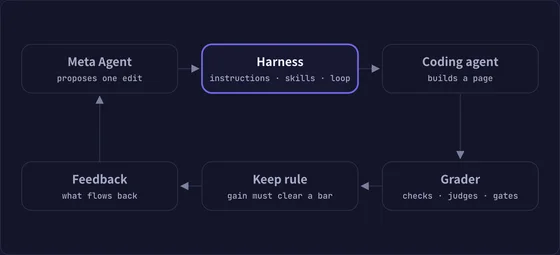
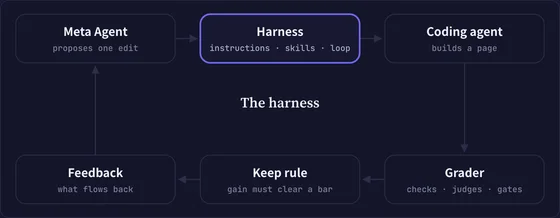
Rework Figures 2, 4 and 6 of the harness post
- Figure 2 (the loop): the diagram is built once and steps re-class it, so boxes
  and arrows ease between states; the step title sits in the loop's hole, the
  card keeps the tallest step's height, controls regrouped.
- Figure 4 (one task, two graders): the static PNG becomes a live figure. The
  two pages in windows (from the paper's source screenshots), a lenient/strict
  switch, scores and the gap counting to the exact paper values (+0.30 ->
  +0.14). Same caption in both posts; example-page.png removed.
- Figure 6 (keep rule): the 40 evaluations land on the chart's own axis, split
  by the bar; the run control sits in the stage; labels moved off the curve.

diff --git a/world/public/blog/harness-optimization/interactive/loop.js b/world/public/blog/harness-optimization/interactive/loop.js
@@ -1,29 +1,26 @@
 // "How the loop works": a step-through of the optimization loop that defines every term the post uses.
+// The diagram is drawn once per layout and steps only change classes, so boxes and arrows ease between states;
+// the current step's title sits in the loop's own hole, and the card below keeps the tallest step's height.
 (function () {
   const {onTheme, reduced} = kit;
-  const svg = document.getElementById('loop'), card = document.getElementById('card'), dots = document.getElementById('dots');
+  const svg = document.getElementById('loop'), card = document.getElementById('card'), dots = document.getElementById('dots'), count = document.getElementById('count');
   const prev = document.getElementById('prev'), next = document.getElementById('next');
-  // Nodes on a loop: x, y are centres in a 640 x 280 box.
-  const WIDE = {
-    meta: [105, 70], harness: [320, 70], agent: [535, 70], grader: [535, 210], rule: [320, 210], feedback: [105, 210],
-  };
-  const NARROW = {  // the same loop in two columns for phones
-    meta: [82, 40], harness: [258, 40], agent: [258, 160], grader: [258, 280], rule: [82, 280], feedback: [82, 160],
-  };
+  // Nodes on a loop: x, y are centres. The wide loop leaves a hole between its rows for the step title.
+  const WIDE = {box: [640, 236], meta: [100, 34], harness: [320, 34], agent: [540, 34], grader: [540, 202], rule: [320, 202], feedback: [100, 202]};
+  const NARROW = {box: [340, 330], meta: [82, 34], harness: [258, 34], agent: [258, 165], grader: [258, 296], rule: [82, 296], feedback: [82, 165]};
   // title, subtitle, shorter subtitle for the narrow layout
   const LABEL = {
     meta: ['Meta Agent', 'proposes one edit'], harness: ['Harness', 'instructions · skills · loop', 'how the agent works'],
     agent: ['Coding agent', 'builds a page'], grader: ['Grader', 'checks · judges · gates', 'scores each page'],
     rule: ['Keep rule', 'gain must clear a bar', 'keep or revert'], feedback: ['Feedback', 'what flows back'],
   };
-  let N = {};
   const E = [['meta', 'harness'], ['harness', 'agent'], ['agent', 'grader'], ['grader', 'rule'], ['rule', 'feedback'], ['feedback', 'meta']];
   const STEPS = [
     {on: ['harness'], h: 'The harness', b: 'Everything around a frozen AI model: its <b>instructions</b>, <b>skills</b> (reusable how-to files), <b>hooks</b> (scripts that run at fixed moments) and its <b>control loop</b>. Changing the harness changes how the agent works without retraining the model.'},
     {on: ['meta', 'harness'], h: 'The Meta Agent edits it', b: 'A second AI agent reads the run records and proposes <b>one edit</b> to the harness per iteration. In most lineages it may edit instructions, skills and hooks (<b>prompt-level</b>); in one it may also edit the control loop (<b>control-loop</b>).'},
     {on: ['harness', 'agent'], h: 'The coding agent builds pages', b: 'With the edited harness, a coding agent builds an interactive web page from a short written brief. There is no reference answer: many different pages can be good.'},
     {on: ['agent', 'grader'], h: 'The grader scores each page from 0 to 1', b: 'Programmatic checks (does it load, overflow, throw errors), <b>claim checks</b> by AI judges (does it do what the brief asks) and a <b>design judge</b> scoring a design <b>rubric</b>, the list of criteria it checks. Breaking a hard rule, a <b>gate</b>, multiplies the score by 0.8.'},
-    {on: ['grader', 'rule'], h: 'The keep rule decides', b: 'Each candidate runs on <b>6 dev tasks</b> the Meta Agent never sees. If its mean score beats its parent\'s by a <b>bar</b> set from measured noise, the edit is <b>kept</b>; otherwise it is <b>reverted</b>. A chain of kept edits from the starting harness is a <b>lineage</b>.'},
+    {on: ['grader', 'rule'], h: 'The keep rule decides', sub: 'kept → the next edit starts here · reverted → back to the parent', b: 'Each candidate runs on <b>6 dev tasks</b> the Meta Agent never sees. If its mean score beats its parent\'s by a <b>bar</b> set from measured noise, the edit is <b>kept</b>; otherwise it is <b>reverted</b>. A chain of kept edits from the starting harness is a <b>lineage</b>.'},
     {on: ['rule', 'feedback', 'meta'], h: 'Feedback flows back', b: 'What the Meta Agent sees next is the variable we studied. Pick a setting:', fb: true},
     {on: ['meta', 'harness', 'agent', 'grader', 'rule', 'feedback'], h: 'And at the end: unseen tasks', b: 'Besides the 6 dev tasks, each candidate runs on <b>2 search tasks</b> (scores visible only in the richer feedback settings). <b>8 held-out tasks</b> were never used for decisions: they are the final test. We ran the whole loop under a <b>lenient grader</b> (stage 1), then under a <b>strict grader</b> (stage 2).'},
   ];
@@ -32,47 +29,61 @@
     failed: ['failed items', 'Search-task scores, plus the text of every check and rubric item a page failed.'],
     full: ['full feedback', 'All of that, plus page screenshots and the full traces of the runs.'],
   };
-  let step = 0, fb = 'failed';
-  function layout() {
-    const narrow = svg.getBoundingClientRect().width < 520 || innerWidth < 560;
-    const pos = narrow ? NARROW : WIDE;
-    N = Object.fromEntries(Object.entries(pos).map(([k, [x, y]]) => [k, {x, y, t: LABEL[k][0], s: narrow && LABEL[k][2] || LABEL[k][1]}]));
-    svg.setAttribute('viewBox', narrow ? '0 0 340 340' : '0 0 640 280');
-    return narrow;
-  }
-  function draw() {
-    const narrow = layout();
-    const s = STEPS[step], on = new Set(s.on);
-    let g = '<defs><marker id="ah" viewBox="0 0 10 10" refX="9" refY="5" markerWidth="7" markerHeight="7" orient="auto-start-reverse"><path d="M0 0L10 5L0 10z" fill="var(--faint)"/></marker><marker id="ahon" viewBox="0 0 10 10" refX="9" refY="5" markerWidth="7" markerHeight="7" orient="auto-start-reverse"><path d="M0 0L10 5L0 10z" fill="var(--kept)"/></marker></defs>';
-    const W = narrow ? 140 : 186, H = 58;
+  let step = 0, fb = 'failed', narrow = null;
+
+  // ---- the diagram: built per layout, then only re-classed ----
+  function build() {
+    narrow = svg.getBoundingClientRect().width < 520 || innerWidth < 560;
+    const pos = narrow ? NARROW : WIDE, [bw, bh] = pos.box, W = narrow ? 140 : 190, H = 58;
+    svg.setAttribute('viewBox', `0 0 ${bw} ${bh}`);
+    let g = '<defs>' + ['ah', 'ahon'].map(id => `<marker id="${id}" viewBox="0 0 10 10" refX="9" refY="5" markerWidth="7" markerHeight="7" orient="auto-start-reverse"><path d="M0 0L10 5L0 10z" fill="var(${id === 'ah' ? '--line-2' : '--kept'})"/></marker>`).join('') + '</defs>';
     E.forEach(([a, b]) => {
-      const A = N[a], B = N[b], lit = on.has(a) && on.has(b);
-      const dx = Math.sign(B.x - A.x), dy = Math.sign(B.y - A.y);
-      const x1 = A.x + dx * W / 2, y1 = A.y + dy * H / 2, x2 = B.x - dx * (W / 2 + 4), y2 = B.y - dy * (H / 2 + 4);
-      g += `<line x1="${x1}" y1="${y1}" x2="${x2}" y2="${y2}" stroke="var(${lit ? '--kept' : '--line-2'})" stroke-width="${lit ? 2.4 : 1.4}" marker-end="url(#${lit ? 'ahon' : 'ah'})" ${lit && !reduced ? 'class="flow"' : ''}/>`;
+      const [ax, ay] = pos[a], [bx, by] = pos[b], dx = Math.sign(bx - ax), dy = Math.sign(by - ay);
+      const x1 = ax + dx * W / 2, y1 = ay + dy * H / 2, x2 = bx - dx * (W / 2 + 4), y2 = by - dy * (H / 2 + 4);
+      // A dim and a lit copy of each arrow: the lit one fades in, so the change of state is a transition, not a swap.
+      g += `<line class="e" x1="${x1}" y1="${y1}" x2="${x2}" y2="${y2}" marker-end="url(#ah)"/>`;
+      g += `<line class="e on${reduced ? '' : ' flow'}" data-e="${a}-${b}" x1="${x1}" y1="${y1}" x2="${x2}" y2="${y2}" marker-end="url(#ahon)"/>`;
     });
-    if (step === 4) g += narrow ? `<text x="170" y="334" text-anchor="middle" style="font-size:10px">kept → next edit starts here</text>` : `<text x="320" y="146" text-anchor="middle" style="font-size:10px">kept → next edit starts here · reverted → back to the parent</text>`;
-    Object.entries(N).forEach(([k, n]) => {
-      const lit = on.has(k);
-      g += `<g style="cursor:pointer" data-k="${k}"><rect x="${n.x - W / 2}" y="${n.y - H / 2}" width="${W}" height="${H}" rx="12" fill="var(${lit ? '--bg' : '--surface'})" stroke="var(${lit ? '--kept' : '--line-2'})" stroke-width="${lit ? 2 : 1}"/>`
-        + `<text x="${n.x}" y="${n.y - 3}" text-anchor="middle" style="font-family:var(--sans);font-size:14px;font-weight:600;fill:var(${lit ? '--ink' : '--muted'})">${n.t}</text>`
-        + `<text x="${n.x}" y="${n.y + 15}" text-anchor="middle" style="font-size:10px">${n.s}</text></g>`;
+    Object.entries(LABEL).forEach(([k, [t, s, short]]) => {
+      const [x, y] = pos[k];
+      g += `<g class="n" data-k="${k}" role="button" tabindex="0" aria-label="${t}"><rect x="${x - W / 2}" y="${y - H / 2}" width="${W}" height="${H}" rx="12"/>`
+        + `<text class="t" x="${x}" y="${y - 3}" text-anchor="middle">${t}</text>`
+        + `<text class="s" data-s="${k}" x="${x}" y="${y + 15}" text-anchor="middle">${narrow && short || s}</text></g>`;
     });
+    if (!narrow) g += `<text class="hole" x="${bw / 2}" y="${bh / 2 - 2}" text-anchor="middle"></text><text class="hole-sub" x="${bw / 2}" y="${bh / 2 + 18}" text-anchor="middle"></text>`;
     svg.innerHTML = g;
-    svg.querySelectorAll('g[data-k]').forEach(e => e.onclick = () => { const i = STEPS.findIndex(st => st.on[st.on.length - 1] === e.dataset.k || (st.on.length === 1 && st.on[0] === e.dataset.k)); if (i >= 0) { step = i; draw(); } });
-    let html = `<div class="eyebrow" style="margin-bottom:6px">step ${step + 1} of ${STEPS.length}</div><h3 style="font-size:18px">${s.h}</h3><p style="margin:6px 0 0;font-size:14px;line-height:1.55">${s.b}</p>`;
-    if (s.fb) {
-      html += '<div style="display:flex;gap:6px;flex-wrap:wrap;margin-top:10px">' + Object.entries(FB).map(([k, [lab]]) => `<button class="chip" data-fb="${k}" aria-pressed="${k === fb}">${lab}</button>`).join('') + `</div><p style="margin:8px 0 0;font-size:13.5px;color:var(--muted)">${FB[fb][1]}</p>`;
-    }
-    card.innerHTML = html;
-    card.querySelectorAll('[data-fb]').forEach(b => b.onclick = () => { fb = b.dataset.fb; draw(); });
-    dots.innerHTML = STEPS.map((_, i) => `<button aria-label="step ${i + 1}" data-i="${i}" style="width:9px;height:9px;padding:0;border-radius:50%;border:0;background:var(${i === step ? '--ink' : '--line-2'});cursor:pointer"></button>`).join('');
-    dots.querySelectorAll('button').forEach(b => b.onclick = () => { step = +b.dataset.i; draw(); });
+    svg.querySelectorAll('g.n').forEach(n => {
+      const go = () => { const i = STEPS.findIndex(st => st.on[st.on.length - 1] === n.dataset.k || (st.on.length === 1 && st.on[0] === n.dataset.k)); if (i >= 0) set(i); };
+      n.onclick = go; n.onkeydown = e => { if (e.key === 'Enter' || e.key === ' ') { e.preventDefault(); go(); } };
+    });
+  }
+
+  // ---- the card: every step rendered in one grid cell, so its height is the tallest step's and nothing below moves ----
+  card.innerHTML = STEPS.map((s, i) => `<div class="st" data-i="${i}" aria-hidden="true"><h3 class="st-h">${s.h}</h3><p>${s.b}</p>${s.fb ? `<div class="fbs">${Object.entries(FB).map(([k, [lab]]) => `<button class="chip" data-fb="${k}">${lab}</button>`).join('')}</div><p class="fbt" aria-live="polite"></p>` : ''}</div>`).join('');
+  card.querySelectorAll('[data-fb]').forEach(b => b.onclick = () => { fb = b.dataset.fb; paint(); });
+  dots.innerHTML = STEPS.map((s, i) => `<button class="dot" data-i="${i}" aria-label="step ${i + 1}: ${s.h}"></button>`).join('');
+  dots.querySelectorAll('button').forEach(b => b.onclick = () => set(+b.dataset.i));
+
+  function paint() {
+    const s = STEPS[step], on = new Set(s.on);
+    svg.querySelectorAll('g.n').forEach(n => n.classList.toggle('lit', on.has(n.dataset.k)));
+    svg.querySelectorAll('line.on').forEach(l => { const [a, b] = l.dataset.e.split('-'); l.classList.toggle('show', on.has(a) && on.has(b)); });
+    // On the feedback step the Feedback box names the chosen setting.
+    const fs = svg.querySelector('[data-s="feedback"]'); if (fs) fs.textContent = s.fb ? FB[fb][0] : LABEL.feedback[1];
+    const hole = svg.querySelector('.hole'); if (hole) { hole.textContent = s.h; svg.querySelector('.hole-sub').textContent = s.sub || ''; }
+    card.classList.toggle('narrow', narrow);
+    card.querySelectorAll('.st').forEach(e => { const cur = +e.dataset.i === step; e.classList.toggle('cur', cur); e.setAttribute('aria-hidden', String(!cur)); e.inert = !cur; });
+    card.querySelectorAll('[data-fb]').forEach(b => b.setAttribute('aria-pressed', String(b.dataset.fb === fb)));
+    const ft = card.querySelector('.fbt'); if (ft) ft.textContent = FB[fb][1];
+    dots.querySelectorAll('button').forEach(b => b.setAttribute('aria-current', String(+b.dataset.i === step)));
+    count.textContent = `step ${step + 1} of ${STEPS.length}`;
     prev.disabled = step === 0; next.textContent = step === STEPS.length - 1 ? 'Start over' : 'Next →';
   }
-  prev.onclick = () => { step = Math.max(0, step - 1); draw(); };
-  next.onclick = () => { step = step === STEPS.length - 1 ? 0 : step + 1; draw(); };
-  addEventListener('keydown', e => { if (e.key === 'ArrowRight') next.click(); if (e.key === 'ArrowLeft') prev.click(); });
-  addEventListener('resize', draw);
-  draw(); onTheme(draw);
+  const set = i => { step = i; paint(); };
+  prev.onclick = () => set(Math.max(0, step - 1));
+  next.onclick = () => set(step === STEPS.length - 1 ? 0 : step + 1);
+  addEventListener('keydown', e => { if (e.target.closest?.('button,input')) return; if (e.key === 'ArrowRight') next.click(); if (e.key === 'ArrowLeft') prev.click(); });
+  const relayout = () => { const was = narrow; const w = svg.getBoundingClientRect().width < 520 || innerWidth < 560; if (w !== was) { build(); paint(); } };
+  addEventListener('resize', relayout);
+  build(); paint(); onTheme(paint);
 })();

diff --git a/world/public/blog/harness-optimization/interactive/keep-sim.js b/world/public/blog/harness-optimization/interactive/keep-sim.js
@@ -1,51 +1,75 @@
 // Keep-rule model: P(keep) = P(mean of n paired differences >= bar), each difference ~ N(gain, 2·noise²).
+// "Run 40 evaluations" drops each run's measured gain onto the chart's own axis, so the bar visibly splits kept from reverted.
 (function () {
   const {onTheme, reduced, fit} = kit;
   const S = {gain: 0.05, noise: 0.06, tasks: 6, bar: 0.0514};
   const C = [['gain', 'true gain of the edit', -0.05, 0.2, 0.005, 3], ['noise', 'per-task standard deviation', 0, 0.12, 0.005, 3],
     ['tasks', 'dev tasks', 2, 30, 1, 0], ['bar', 'keep bar', 0, 0.12, 0.0005, 4]];
-  const ctl = document.getElementById('ctl');
+  const ctl = document.getElementById('ctl'), svg = document.getElementById('curve'), tally = document.getElementById('tally');
+  let runs = [], timer = 0;
   C.forEach(([k, lab, lo, hi, st]) => {
     const d = document.createElement('label');
     d.innerHTML = `<div style="display:flex;justify-content:space-between;font-size:12px;color:var(--muted);margin-bottom:6px"><span>${lab}</span><b id="v-${k}" class="label" style="color:var(--ink)"></b></div><input type="range" min="${lo}" max="${hi}" step="${st}" value="${S[k]}" aria-label="${lab}">`;
-    d.querySelector('input').oninput = e => { S[k] = +e.target.value; draw(); };
+    // Moving a setting changes the edit being measured: the runs on screen no longer describe it.
+    d.querySelector('input').oninput = e => { S[k] = +e.target.value; clear(); draw(); };
     ctl.appendChild(d);
   });
   const erf = x => { const t = 1 / (1 + 0.3275911 * Math.abs(x)), y = 1 - (((((1.061405429 * t - 1.453152027) * t) + 1.421413741) * t - 0.284496736) * t + 0.254829592) * t * Math.exp(-x * x); return x >= 0 ? y : -y; };
   const Phi = z => 0.5 * (1 + erf(z / Math.SQRT2));
   const sd = () => S.noise * Math.sqrt(2 / S.tasks);
   const pk = g => sd() === 0 ? (g >= S.bar ? 1 : 0) : 1 - Phi((S.bar - g) / sd());
+  const lo = -0.05, hi = 0.2, H = 250, m = {l: 38, r: 12, t: 22, b: 30}, strip = 40; // the runs' strip sits between the curve and its axis labels
+  let W = 560;
+  const x = v => m.l + (Math.max(lo, Math.min(hi, v)) - lo) / (hi - lo) * (W - m.l - m.r);
+  const y = v => H - m.b - strip - v * (H - m.t - m.b - strip);
   function draw() {
     C.forEach(([k, , , , , dg]) => document.getElementById('v-' + k).textContent = S[k].toFixed(dg));
     const p = pk(S.gain);
     document.getElementById('p').textContent = Math.round(100 * p) + '%';
     document.getElementById('ptext').textContent = S.gain > 0 ? `chance that an edit which truly gains ${S.gain.toFixed(3)} is kept` : 'chance that an edit which does not help is kept anyway';
-    const H = 200, W = fit(document.getElementById('curve'), H), m = {l: 38, r: 12, t: 10, b: 30}, lo = -0.05, hi = 0.2;
-    const x = v => m.l + (v - lo) / (hi - lo) * (W - m.l - m.r), y = v => H - m.b - v * (H - m.t - m.b);
+    W = fit(svg, H);
+    const zl = x(S.bar - 2 * sd()), zr = x(S.bar + 2 * sd()), base = H - m.b;
     let g = '';
     [0, 0.5, 1].forEach(t => g += `<line class="grid" x1="${m.l}" x2="${W - m.r}" y1="${y(t)}" y2="${y(t)}"/><text x="${m.l - 6}" y="${y(t) + 3.5}" text-anchor="end">${t * 100}%</text>`);
-    [-0.05, 0, 0.05, 0.1, 0.15, 0.2].forEach(t => g += `<text x="${x(t)}" y="${H - m.b + 14}" text-anchor="middle">${t.toFixed(2)}</text>`);
-    g += `<text x="${(m.l + W - m.r) / 2}" y="${H - 2}" text-anchor="middle">true gain of the edit</text>`;
+    g += `<line class="axis" x1="${m.l}" x2="${W - m.r}" y1="${base}" y2="${base}"/>`;
+    [-0.05, 0, 0.05, 0.1, 0.15, 0.2].forEach(t => g += `<text x="${x(t)}" y="${base + 14}" text-anchor="middle">${t.toFixed(2)}</text>`);
+    g += `<text x="${(m.l + W - m.r) / 2}" y="${H - 2}" text-anchor="middle">gain of the edit</text>`;
     let d = '';
     for (let v = lo; v <= hi + 1e-9; v += 0.0025) d += (d ? 'L' : 'M') + x(v).toFixed(1) + ',' + y(pk(v)).toFixed(1);
-    g += `<rect x="${x(S.bar - 2 * sd())}" y="${y(1)}" width="${Math.max(0, x(S.bar + 2 * sd()) - x(S.bar - 2 * sd()))}" height="${y(0) - y(1)}" fill="var(--rev)" opacity=".07"/>`;
-    g += `<line x1="${x(S.bar)}" x2="${x(S.bar)}" y1="${y(0)}" y2="${y(1)}" stroke="var(--faint)" stroke-dasharray="3 3"/><text x="${x(S.bar) + 5}" y="${y(1) + 10}">bar</text>`;
-    g += `<text x="${x(S.bar + 2 * sd()) - 4}" y="${y(0.04)}" text-anchor="end" style="fill:var(--rev)">coin-flip zone</text>`;
-    g += `<path d="${d}" fill="none" stroke="var(--kept)" stroke-width="2.2"/><circle cx="${x(S.gain)}" cy="${y(p)}" r="5.5" fill="var(--ink)" stroke="var(--surface)" stroke-width="2"/>`;
-    document.getElementById('curve').innerHTML = g;
+    g += `<rect x="${zl}" y="${y(1)}" width="${Math.max(0, zr - zl)}" height="${base - y(1)}" fill="var(--rev)" opacity=".07"/>`;
+    // Labels above the plot and in the margin, so neither the curve nor a run ever lands on them.
+    g += `<text x="${(zl + zr) / 2}" y="${y(1) - 8}" text-anchor="middle" style="fill:var(--rev)">coin-flip zone</text>`;
+    g += `<line x1="${x(S.bar)}" x2="${x(S.bar)}" y1="${base}" y2="${y(1)}" stroke="var(--faint)" stroke-dasharray="3 3"/><text x="${x(S.bar) + 5}" y="${y(1) + 12}">bar</text>`;
+    g += `<text x="${m.l - 6}" y="${base - strip / 2 + 3.5}" text-anchor="end" style="fill:var(--faint)">runs</text>`;
+    g += `<path d="${d}" fill="none" stroke="var(--kept)" stroke-width="2.2"/>`;
+    g += `<line x1="${x(S.gain)}" x2="${x(S.gain)}" y1="${y(p)}" y2="${base}" stroke="var(--ink)" stroke-opacity=".25"/>`;
+    g += `<circle cx="${x(S.gain)}" cy="${y(p)}" r="5.5" fill="var(--ink)" stroke="var(--surface)" stroke-width="2"/>`;
+    g += '<g id="runs"></g>';
+    svg.innerHTML = g;
+    runs.forEach(r => place(r, false));
   }
+  // A run lands in the strip at its measured gain, stacked over earlier runs that fell close by.
+  function place(r, fresh) {
+    const cx = x(r.v), row = runs.filter(q => q !== r && q.i < r.i && Math.abs(x(q.v) - cx) < 7).length % 5;
+    const cy = H - m.b - 6 - row * 7, s = 6;
+    const n = document.createElementNS('http://www.w3.org/2000/svg', r.keep ? 'circle' : 'rect');
+    if (r.keep) { n.setAttribute('cx', cx); n.setAttribute('cy', cy); n.setAttribute('r', s / 2 + .5); }
+    else { n.setAttribute('x', cx - s / 2); n.setAttribute('y', cy - s / 2); n.setAttribute('width', s); n.setAttribute('height', s); n.setAttribute('rx', 1); }
+    n.setAttribute('fill', `var(${r.keep ? '--kept' : '--rev'})`);
+    n.style.cssText = `transform-box:fill-box;transform-origin:center;transition:transform var(--d2) var(--ease),opacity var(--d2) var(--ease)${fresh && !reduced ? ';transform:translateY(-14px);opacity:0' : ''}`;
+    svg.querySelector('#runs').appendChild(n);
+    if (fresh && !reduced) requestAnimationFrame(() => requestAnimationFrame(() => { n.style.transform = ''; n.style.opacity = ''; }));
+  }
+  const say = () => { const k = runs.filter(r => r.keep).length; tally.textContent = runs.length ? `${k} of ${runs.length} kept` : ''; };
+  function clear() { clearTimeout(timer); runs = []; say(); }
   const gauss = () => { let u = 0, v = 0; while (!u) u = Math.random(); while (!v) v = Math.random(); return Math.sqrt(-2 * Math.log(u)) * Math.cos(2 * Math.PI * v); };
   document.getElementById('run').onclick = () => {
-    const dots = document.getElementById('dots'), tally = document.getElementById('tally'); dots.innerHTML = '';
-    let kept = 0, i = 0;
+    clear(); draw();
     const one = () => {
       let s = 0; for (let j = 0; j < S.tasks; j++) s += S.gain + S.noise * gauss() - S.noise * gauss();
-      const keep = s / S.tasks >= S.bar; kept += keep;
-      const e = document.createElement('span'); e.title = keep ? 'kept' : 'reverted';
-      e.style.cssText = `width:14px;height:14px;border-radius:${keep ? '50%' : '3px'};background:var(${keep ? '--kept' : '--rev'});transition:transform var(--d2) var(--ease);transform:scale(0)`;
-      dots.appendChild(e); requestAnimationFrame(() => e.style.transform = 'scale(1)');
-      tally.textContent = `${kept} kept · ${i + 1 - kept} reverted`;
-      if (++i < 40) reduced ? one() : setTimeout(one, 35);
+      const r = {i: runs.length, v: s / S.tasks, keep: s / S.tasks >= S.bar};
+      runs.push(r); place(r, true); say();
+      if (runs.length < 40) timer = reduced ? one() : setTimeout(one, 45);
     };
     one();
   };

diff --git a/world/public/blog/harness-optimization/interactive/example.html b/world/public/blog/harness-optimization/interactive/example.html
@@ -1,0 +1,40 @@
+<!doctype html><html lang="en"><head><meta charset="utf-8"><meta name="viewport" content="width=device-width,initial-scale=1">
+<title>One task, two graders</title><link rel="stylesheet" href="kit.css"><script src="kit.js"></script>
+<style>
+.pair{display:grid;grid-template-columns:1fr 1fr;gap:14px}
+.win{display:block;border-radius:10px;background:var(--bg);border:1px solid var(--line-2);box-shadow:0 1px 2px rgba(21,22,46,.06),0 10px 28px -14px rgba(21,22,46,.28);overflow:hidden;color:inherit;text-decoration:none}
+.win .bar{display:flex;align-items:center;gap:8px;height:34px;padding:0 10px 0 12px;border-bottom:1px solid var(--line)}
+.win .bar i{width:8px;height:8px;border-radius:50%;background:var(--line-2);flex:none}
+.win .bar .nm{font:500 11px var(--mono);color:var(--muted);white-space:nowrap;overflow:hidden;text-overflow:ellipsis;min-width:0}
+.win .bar .sc{margin-left:auto;font:500 12.5px var(--mono);color:var(--ink);background:var(--surface-2);border-radius:6px;padding:3px 7px;flex:none;font-variant-numeric:tabular-nums}
+/* the page, from its top, fading out at the foot over the rest of the scroll */
+.win .pg{display:block;width:100%;height:auto;aspect-ratio:4/5;object-fit:cover;object-position:top;-webkit-mask:linear-gradient(#000 62%,transparent);mask:linear-gradient(#000 62%,transparent)}
+.win:hover{border-color:var(--faint)}.win:focus-visible{outline:2px solid var(--kept);outline-offset:2px}
+.row{display:flex;align-items:center;gap:14px;flex-wrap:wrap;margin-top:12px}
+.seg{display:inline-flex;padding:3px;border-radius:10px;background:var(--surface-2);gap:2px}
+.seg button{font:500 12.5px var(--sans);border:0;background:none;color:var(--muted);padding:6px 12px;border-radius:7px;cursor:pointer;display:inline-flex;align-items:center;gap:7px;transition:background var(--d1),color var(--d1)}
+.seg button[aria-pressed=true]{background:var(--bg);color:var(--ink);box-shadow:0 1px 2px rgba(21,22,46,.12)}
+.seg i{width:9px;height:9px;border-radius:50%;border:2px solid var(--lenient)}.seg i.s{border:0;background:var(--strict)}
+.gap{margin-left:auto;display:flex;align-items:baseline;gap:10px}
+.gap .readout{font:600 30px/1 var(--serif);letter-spacing:-.02em;font-variant-numeric:tabular-nums;min-width:0;transition:color var(--d2)}
+.gap .readout.down{color:var(--rev)}
+.gap .was{font:500 11px var(--mono);color:var(--faint);white-space:nowrap}
+@media (max-width:480px){.pair{gap:10px}.win .bar{padding:0 6px 0 10px}.win .bar i{display:none}.win .bar .nm{font-size:0}.win .bar .nm::after{content:attr(data-short);font-size:11px}.gap{margin-left:0}.gap .readout{font-size:26px}}
+</style></head><body>
+<div class="w">
+<div class="eyebrow">One dev task <span class="badge">exact</span></div>
+<h3>Same two pages, <em>two</em> graders</h3>
+<p class="lede">The page from the starting harness and the page from a kept harness. Switch the grader: the pages stay the same; the gap between their scores does not.</p>
+<div class="stage">
+<div class="pair">
+<a class="win" href="/blog/harness-optimization/figs/example-baseline.webp" target="_blank" rel="noopener" aria-label="Open the starting harness's full page"><div class="bar"><i></i><i></i><i></i><span class="nm" data-short="baseline">baseline harness</span><span class="sc" id="sa"></span></div><img class="pg" src="/blog/harness-optimization/figs/example-baseline.webp" alt="The page the starting harness built for this task" width="720" height="1589"></a>
+<a class="win" href="/blog/harness-optimization/figs/example-kept.webp" target="_blank" rel="noopener" aria-label="Open the kept harness's full page"><div class="bar"><i></i><i></i><i></i><span class="nm" data-short="kept">kept harness</span><span class="sc" id="sb"></span></div><img class="pg" src="/blog/harness-optimization/figs/example-kept.webp" alt="The page a kept harness built for the same task" width="720" height="1589"></a>
+</div>
+<div class="row">
+<div class="seg" role="group" aria-label="grader"><button data-g="lenient"><i></i>lenient grader</button><button data-g="strict"><i class="s"></i>strict grader</button></div>
+<div class="gap"><span class="was" id="was"></span><span class="label">kept − baseline</span><span class="readout" id="gap"></span></div>
+</div>
+</div>
+<p class="note">Click a page to open it in full.</p>
+</div>
+<script src="example.js"></script></body></html>

diff --git a/world/public/blog/harness-optimization/interactive/loop.html b/world/public/blog/harness-optimization/interactive/loop.html
@@ -1,13 +1,38 @@
 <!doctype html><html lang="en"><head><meta charset="utf-8"><meta name="viewport" content="width=device-width,initial-scale=1">
-<title>How the loop works</title><link rel="stylesheet" href="kit.css"><script src="kit.js"></script></head><body>
+<title>How the loop works</title><link rel="stylesheet" href="kit.css"><script src="kit.js"></script>
+<style>
+#loop{overflow:visible}
+#loop .e{stroke:var(--line-2);stroke-width:1.4;fill:none}
+#loop .e.on{stroke:var(--kept);stroke-width:2.4;opacity:0;transition:opacity var(--d2) var(--ease)}#loop .e.on.show{opacity:1}
+#loop .flow{stroke-dasharray:6 4;animation:dash .9s linear infinite}@keyframes dash{to{stroke-dashoffset:-20}}
+#loop .n{cursor:pointer;outline:none}
+#loop .n rect{fill:var(--surface);stroke:var(--line-2);stroke-width:1;transition:fill var(--d2) var(--ease),stroke var(--d2) var(--ease),stroke-width var(--d2) var(--ease)}
+#loop .n .t{font:600 14px var(--sans);fill:var(--ink);transition:fill var(--d2)}
+#loop .n .s{font-size:10px;fill:var(--faint);transition:fill var(--d2)}
+#loop .n.lit rect{fill:var(--bg);stroke:var(--kept);stroke-width:2}#loop .n.lit .s{fill:var(--muted)}
+#loop .n:hover rect{stroke:var(--kept)}#loop .n:focus-visible rect{stroke:var(--kept);stroke-width:3}
+#loop .hole{font:600 17px var(--serif);fill:var(--ink)}#loop .hole-sub{font-size:10.5px;fill:var(--faint)}
+/* every step in one cell: the card is as tall as its tallest step, and steps cross-fade in place */
+#card{display:grid;margin-top:14px}
+#card .st{grid-area:1/1;opacity:0;transition:opacity var(--d2) var(--ease);pointer-events:none}#card .st.cur{opacity:1;pointer-events:auto}
+#card .st-h{display:none;font-size:18px;margin-bottom:6px}#card.narrow .st-h{display:block}
+#card p{margin:0;font-size:14px;line-height:1.55}
+#card .fbs{display:flex;gap:6px;flex-wrap:wrap;margin-top:10px}#card .fbt{margin-top:8px;font-size:13.5px;color:var(--muted)}
+.nav{display:flex;align-items:center;gap:12px;margin-top:14px;padding-top:12px;border-top:1px solid var(--line)}
+#dots{display:flex;gap:4px}.dot{width:18px;height:18px;padding:0;border:0;background:none;cursor:pointer;display:grid;place-items:center}
+.dot::before{content:"";width:8px;height:8px;border-radius:50%;background:var(--line-2);transition:background var(--d1),transform var(--d1) var(--ease)}
+.dot[aria-current=true]::before{background:var(--kept);transform:scale(1.15)}.dot:hover::before{background:var(--faint)}
+.nav .btns{margin-left:auto;display:flex;gap:8px}.btn:disabled{opacity:.4;cursor:default}.btn:disabled:hover{border-color:var(--line-2)}
+.btn.primary{background:var(--ink);color:var(--bg);border-color:var(--ink)}
+.nav .btn{white-space:nowrap}@media (max-width:480px){#count{display:none}}
+</style></head><body>
 <div class="w">
 <div class="eyebrow">How it works <span class="badge">study design</span></div>
 <h3>The loop, in <em>seven</em> steps</h3>
 <p class="lede">Every term the rest of this post uses, in the order the loop runs. Click Next, a step dot, or a box.</p>
-<div class="stage"><svg id="loop" viewBox="0 0 640 280" role="img" aria-label="The optimization loop: Meta Agent, harness, coding agent, grader, keep rule, feedback"></svg></div>
-<div id="card" style="margin-top:12px;min-height:150px"></div>
-<div class="ctrl" style="justify-content:space-between"><button class="btn" id="prev">← Back</button><div id="dots" style="display:flex;gap:7px"></div><button class="btn" id="next">Next →</button></div>
-<style>@keyframes dash{to{stroke-dashoffset:-20}}.flow{stroke-dasharray:6 4;animation:dash .9s linear infinite}</style>
+<div class="stage"><svg id="loop" viewBox="0 0 640 236" role="img" aria-label="The optimization loop: Meta Agent, harness, coding agent, grader, keep rule, feedback"></svg></div>
+<div id="card" aria-live="polite"></div>
+<div class="nav"><div id="dots"></div><span class="label" id="count"></span><div class="btns"><button class="btn" id="prev">← Back</button><button class="btn primary" id="next">Next →</button></div></div>
 </div>
 <script>const D={};</script>
 <script src="loop.js"></script></body></html>

diff --git a/world/public/blog/harness-optimization/interactive/keep-sim.html b/world/public/blog/harness-optimization/interactive/keep-sim.html
@@ -4,11 +4,10 @@
 <div class="eyebrow">Try it: the keep rule <span class="badge illustrative">illustrative model</span></div>
 <h3>How often is a <em>real</em> improvement kept?</h3>
 <p class="lede">An edit truly lifts every task by the true gain. Each task score is measured once, with run-to-run noise. The rule keeps the edit if the mean difference over the dev tasks clears the bar. The defaults are this study's measured values: a per-task standard deviation of about 0.06, 6 dev tasks, a bar of 0.0514.</p>
-<div class="stage"><div id="ctl" style="display:grid;grid-template-columns:repeat(auto-fit,minmax(190px,1fr));gap:10px 20px;margin-bottom:12px"></div>
-<div style="display:flex;align-items:baseline;gap:12px;flex-wrap:wrap"><span class="big" id="p"></span><span id="ptext" style="color:var(--muted);font-size:13px"></span></div>
-<svg id="curve" viewBox="0 0 560 200" style="margin-top:6px"></svg></div>
-<div class="ctrl"><button class="btn" id="run">Run 40 evaluations of this edit</button><span class="label" id="tally"></span></div>
-<div id="dots" style="display:flex;flex-wrap:wrap;gap:5px;margin-top:10px;min-height:16px"></div>
+<div class="stage"><div id="ctl" style="display:grid;grid-template-columns:repeat(auto-fit,minmax(230px,1fr));gap:10px 20px;margin-bottom:12px"></div>
+<div style="display:flex;align-items:baseline;gap:12px;flex-wrap:wrap"><span class="big" id="p"></span><span id="ptext" style="color:var(--muted);font-size:13px;flex:1;min-width:14em"></span></div>
+<svg id="curve" viewBox="0 0 560 250" style="margin-top:6px"></svg>
+<div class="ctrl" style="margin-top:6px"><button class="btn" id="run">Run 40 evaluations of this edit</button><span class="label" id="tally" aria-live="polite"></span><span class="label" style="margin-left:auto;display:inline-flex;gap:12px;color:var(--faint)"><span><i style="display:inline-block;width:7px;height:7px;border-radius:50%;background:var(--kept);margin-right:5px"></i>kept</span><span><i style="display:inline-block;width:6px;height:6px;border-radius:1px;background:var(--rev);margin-right:5px"></i>reverted</span></span></div></div>
 <p class="note">A simplified model (normal noise, independent tasks); the study's own rule also prices cost and unstable runs.</p>
 </div>
 <script>const D={};</script>

diff --git a/world/public/blog/harness-optimization/interactive/example.js b/world/public/blog/harness-optimization/interactive/example.js
@@ -1,0 +1,35 @@
+// "One task, two graders": the same two pages scored by the lenient and the strict grader. The scores and the gap
+// count to the chosen grader's values; seen for the first time, the figure switches to the strict grader by itself.
+(function () {
+  const {onView, reduced, fmt, lerp, ease} = kit;
+  // Pre-gate scores of pi-f2-loop-l1 baseline and iter-001 on dev task b15-tec-1657 (lenient: the batch grade;
+  // strict: mean of four 0.9.0 gradings), as in the paper's overview figure. Shown to two places, as there.
+  const G = {lenient: {a: 0.6955, b: 0.993}, strict: {a: 0.7423, b: 0.8774}};
+  const sa = document.getElementById('sa'), sb = document.getElementById('sb'), gap = document.getElementById('gap'), was = document.getElementById('was');
+  const btns = [...document.querySelectorAll('.seg button')];
+  let cur = {...G.lenient}, raf = 0, touched = false, grader = 'lenient';
+  const diff = v => v.b - v.a;
+  const paint = v => {
+    sa.textContent = v.a.toFixed(2); sb.textContent = v.b.toFixed(2);
+    gap.textContent = fmt(diff(v), 2, true);
+  };
+  function set(g, animate = !reduced) {
+    grader = g; cancelAnimationFrame(raf);
+    btns.forEach(b => b.setAttribute('aria-pressed', String(b.dataset.g === g)));
+    // Under the strict grader the gap is marked as the one that shrank, and the lenient one stays in view beside it.
+    gap.classList.toggle('down', g === 'strict');
+    was.textContent = g === 'strict' ? `was ${fmt(diff(G.lenient), 2, true)}` : '';
+    const from = {...cur}, to = G[g], t0 = performance.now(), dur = 700;
+    if (!animate) { cur = {...to}; paint(cur); return; }
+    const step = now => {
+      const t = ease(Math.min(1, (now - t0) / dur));
+      cur = {a: lerp(from.a, to.a, t), b: lerp(from.b, to.b, t)}; paint(cur);
+      if (t < 1) raf = requestAnimationFrame(step);
+    };
+    raf = requestAnimationFrame(step);
+  }
+  btns.forEach(b => b.onclick = () => { touched = true; set(b.dataset.g); });
+  // Reduced motion and the first frame a reader sees without scrolling to it: the strict result, the post's point.
+  set(reduced ? 'strict' : 'lenient', false);
+  onView(document.querySelector('.stage'), () => setTimeout(() => { if (!touched) set('strict'); }, 1100));
+})();

diff --git a/world/src/blog/posts/harness-optimization.zh.md b/world/src/blog/posts/harness-optimization.zh.md
@@ -48,7 +48,9 @@ tags: [harness, agents, evaluation]
 
 把门控扣分算进去，排名也变了。在严格评分器下，只看结果的 harness 排第一，+0.090，而最好的完整反馈 harness 是 +0.070。它并没有做出更好的页面：起始 harness 在 16 次运行里有 4 次被门控扣分，而只看结果的 harness 一次也没有。
 
-![一个任务，两个评分器](/blog/harness-optimization/figs/example-page.png "一个 dev 任务：左边是起始 harness 做的页面，右边是一个被保留的 harness 做的页面。和宽松评分器相比，严格评分器给起始页面打得更高（0.74 对 0.70），给保留页面打得更低（0.88 对 0.99）。保留页面的领先从 0.30 变成了 0.14。")
+```embed
+{"src": "/blog/harness-optimization/interactive/example.html", "height": 690, "autosize": true, "title": "一个任务，两个评分器", "caption": "一个 dev 任务：左边是起始 harness 做的页面，右边是一个被保留的 harness 做的页面。和宽松评分器相比，严格评分器给起始页面打得更高（0.74 对 0.70），给保留页面打得更低（0.88 对 0.99）。保留页面的领先从 0.30 变成了 0.14。"}
+```
 
 那到底哪个评分器对？我们拿评分器的一个早期版本，和一个按书面规程打标的独立 AI 标注者做了对比；我们没有人类一致性数据。在差别明显的页面对上，两者 6 次全部一致。在差别细微的页面对上，32 次里只有 16 次一致，等于抛硬币，不过样本不大。这项研究在 held-out 任务上的提升在 0.03 到 0.18 之间，看起来正落在这个“细微差别”区间，而我们测过的评分器在这里都没有得到验证。可以在下面自己探索。看过失败评分项的 harness 做出的页面，在严格评分器下掉分最多。
 

diff --git a/world/src/blog/posts/harness-optimization.en.md b/world/src/blog/posts/harness-optimization.en.md
@@ -48,7 +48,9 @@ At the end we took the first kept version of four lineages, one per feedback set
 
 Gate deductions change the ranking too. Count them, and under the strict grader the outcome-only harness ranks first, at +0.090 against +0.070 for the best full-feedback harness. It did not build better pages. The starting harness lost points to gates in 4 of 16 runs, and the outcome-only harness lost none.
 
-![One task, two graders](/blog/harness-optimization/figs/example-page.png "One dev task: the page from the starting harness (left) and from a kept harness (right). Compared with the lenient grader, the strict grader scores the starting page higher (0.74 vs 0.70) and the kept page lower (0.88 vs 0.99). The kept page is 0.14 ahead instead of 0.30.")
+```embed
+{"src": "/blog/harness-optimization/interactive/example.html", "height": 690, "autosize": true, "title": "One task, two graders", "caption": "One dev task: the page from the starting harness (left) and from a kept harness (right). Compared with the lenient grader, the strict grader scores the starting page higher (0.74 vs 0.70) and the kept page lower (0.88 vs 0.99). The kept page is 0.14 ahead instead of 0.30."}
+```
 
 So which grader is right? We checked an earlier version of our grader against a separate AI labeler that followed a written protocol; we have no human agreement data. On page pairs that differed clearly, they agreed 6 times out of 6. On pairs that differed slightly, they agreed 16 times out of 32, a coin flip, though from a small sample. This study's held-out gains of 0.03 to 0.18 appear to sit in that slight regime, where no grader we tested is validated. Explore it below. The pages built by harnesses that saw failed rubric items lose the most under the stricter grader.
 
